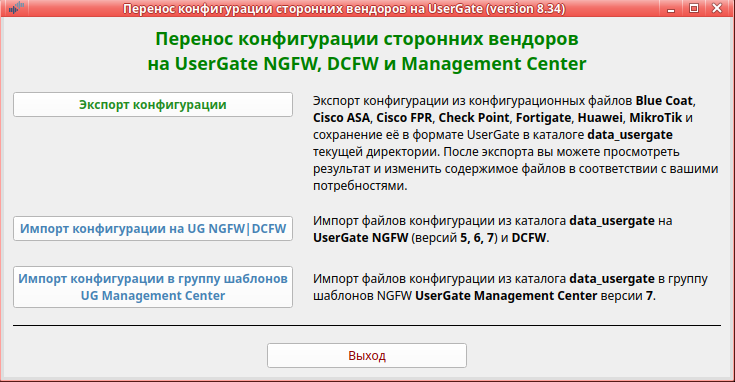
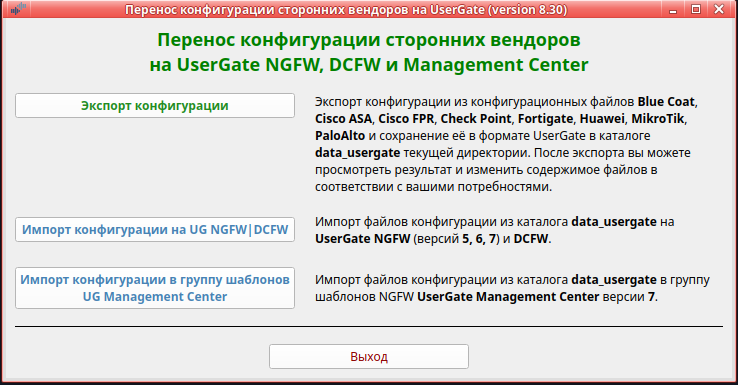
Добавлена конвертация с PaloAlto.

diff --git a/universal_converter/src/vizard_classes.py b/universal_converter/src/vizard_classes.py
@@ -36,7 +36,7 @@ class SelectAction(QWidget):
         self.parent = parent
         text1 = "<b><font color='green' size='+2'>Перенос конфигурации сторонних вендоров<br>на UserGate NGFW, DCFW и Management Center</font></b>"
         text2 = "Экспорт конфигурации из конфигурационных файлов <b>Blue Coat</b>, <b>Cisco ASA</b>, <b>Cisco FPR</b>, <b>Check Point</b>, \
-<b>Fortigate</b>, <b>Huawei</b>, <b>MikroTik</b>  и сохранение её в формате UserGate в каталоге <b>data_usergate</b> текущей директории. \
+<b>Fortigate</b>, <b>Huawei</b>, <b>MikroTik</b>, <b>PaloAlto</b> и сохранение её в формате UserGate в каталоге <b>data_usergate</b> текущей директории. \
 После экспорта вы можете просмотреть результат и изменить содержимое файлов в соответствии с вашими потребностями."
         text3 = "Импорт файлов конфигурации из каталога <b>data_usergate</b> на <b>UserGate NGFW</b> (версий <b>5, 6, 7</b>) и <b>DCFW</b>."
         text4 = "Импорт файлов конфигурации из каталога <b>data_usergate</b> в группу шаблонов NGFW <b>UserGate Management Center</b> версии <b>7</b>."
